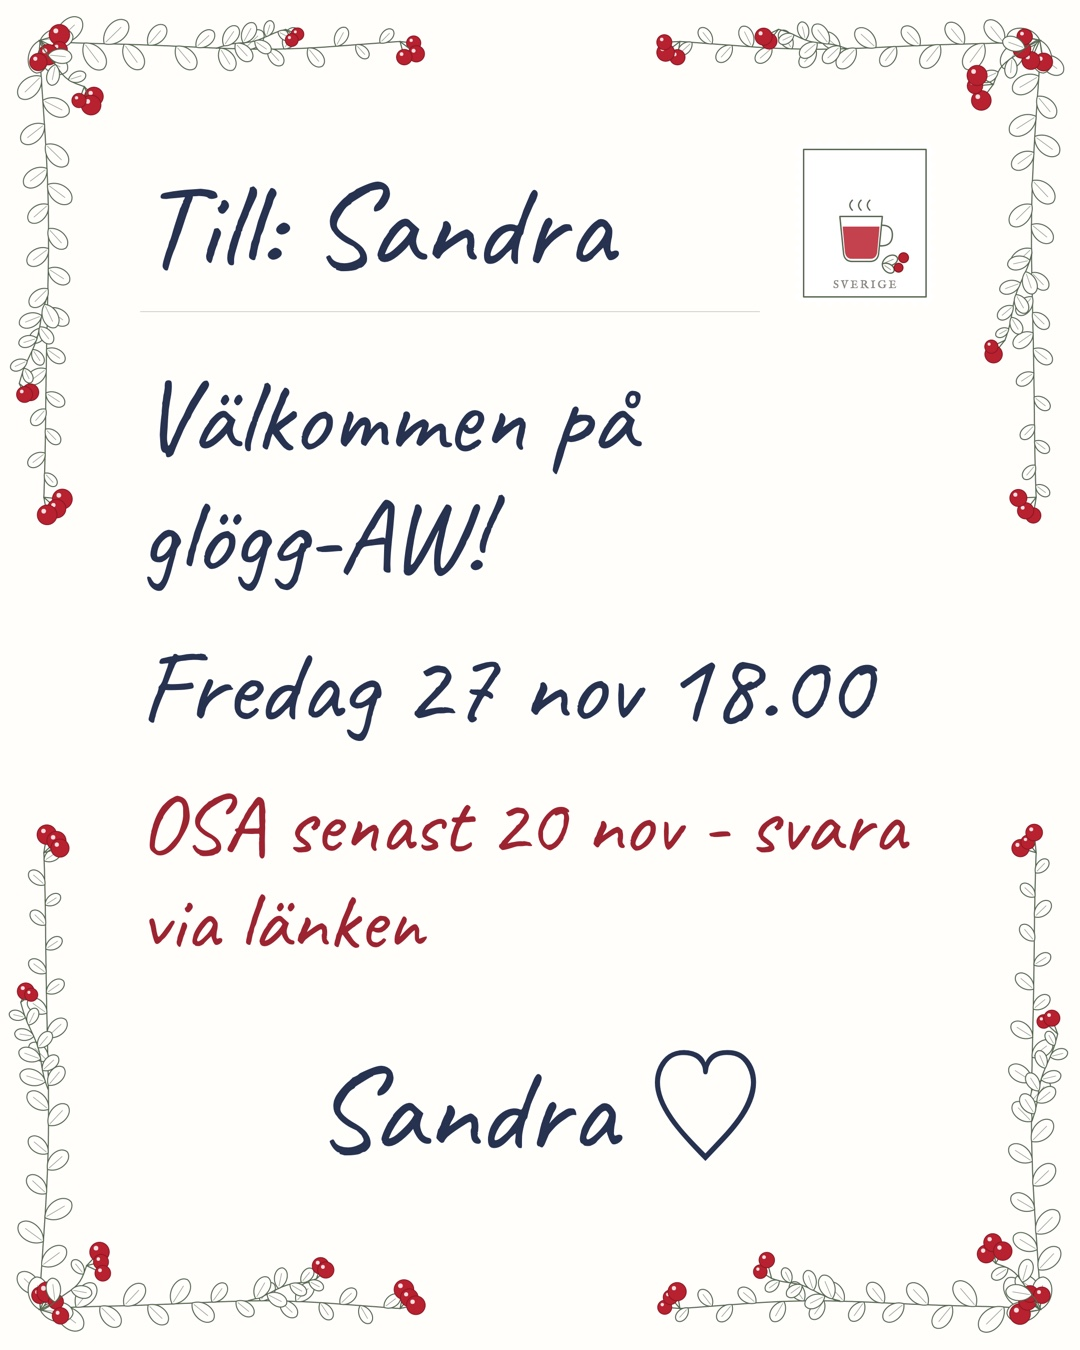
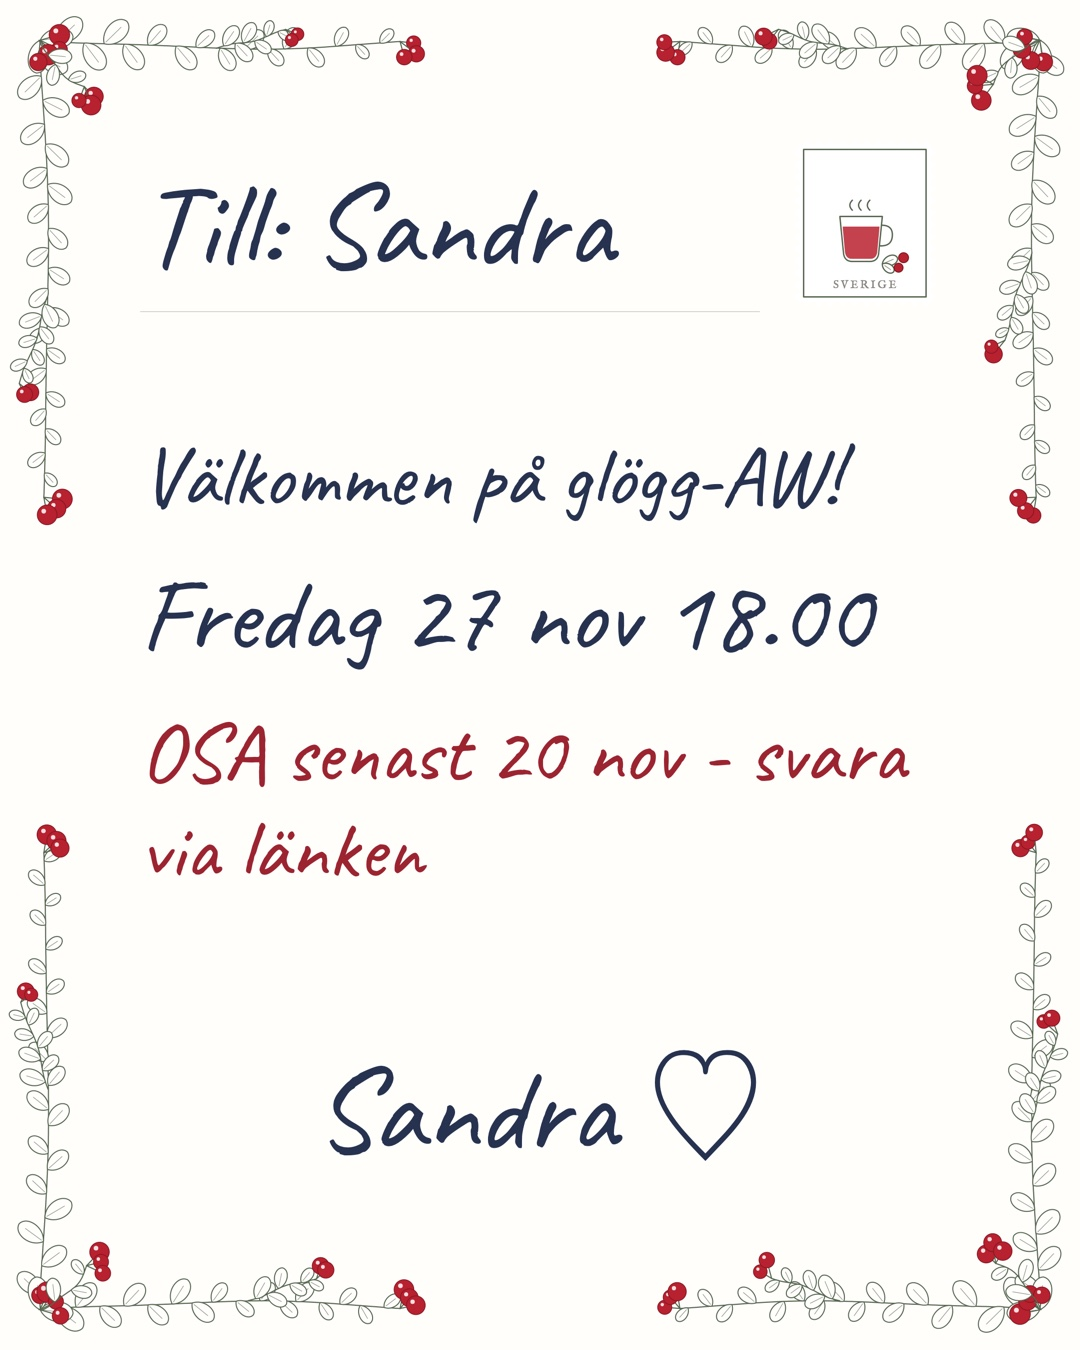
Välkommen line at 84 px

Changed region(s): [[0.1222, 0.28, 0.7944, 0.7156], [0.6417, 0.4356, 0.8556, 0.6533]]

diff --git a/card.html b/card.html
@@ -23,6 +23,7 @@
   .msg .when { margin-top: 30px; }
   .fit { white-space: nowrap; }
   .nw { white-space: nowrap; }
+  .msg .welcome { font-size: 84px; }
   .msg .osa { margin-top: 30px; font-size: 84px; color: var(--berry-ink); }
 </style>
 </head>
@@ -48,7 +49,7 @@
   card.innerHTML = frame +
     `<div class="top"><div class="line hand fit">${t.to}</div>
        <div class="post">${Lingon.stamp(112, 132, 'SVERIGE')}</div></div>
-     <div class="msg hand"><div>${t.msg}</div><div class="when fit">${t.when}</div><div class="osa">${t.osa}</div></div>
+     <div class="msg hand"><div class="welcome">${t.msg}</div><div class="when fit">${t.when}</div><div class="osa">${t.osa}</div></div>
      <div class="line hand from">${t.from}</div>`;
   // Keep everything inside the frame's reach, with some air.
   const depth = Number(card.querySelector('.lingon').dataset.depth);
